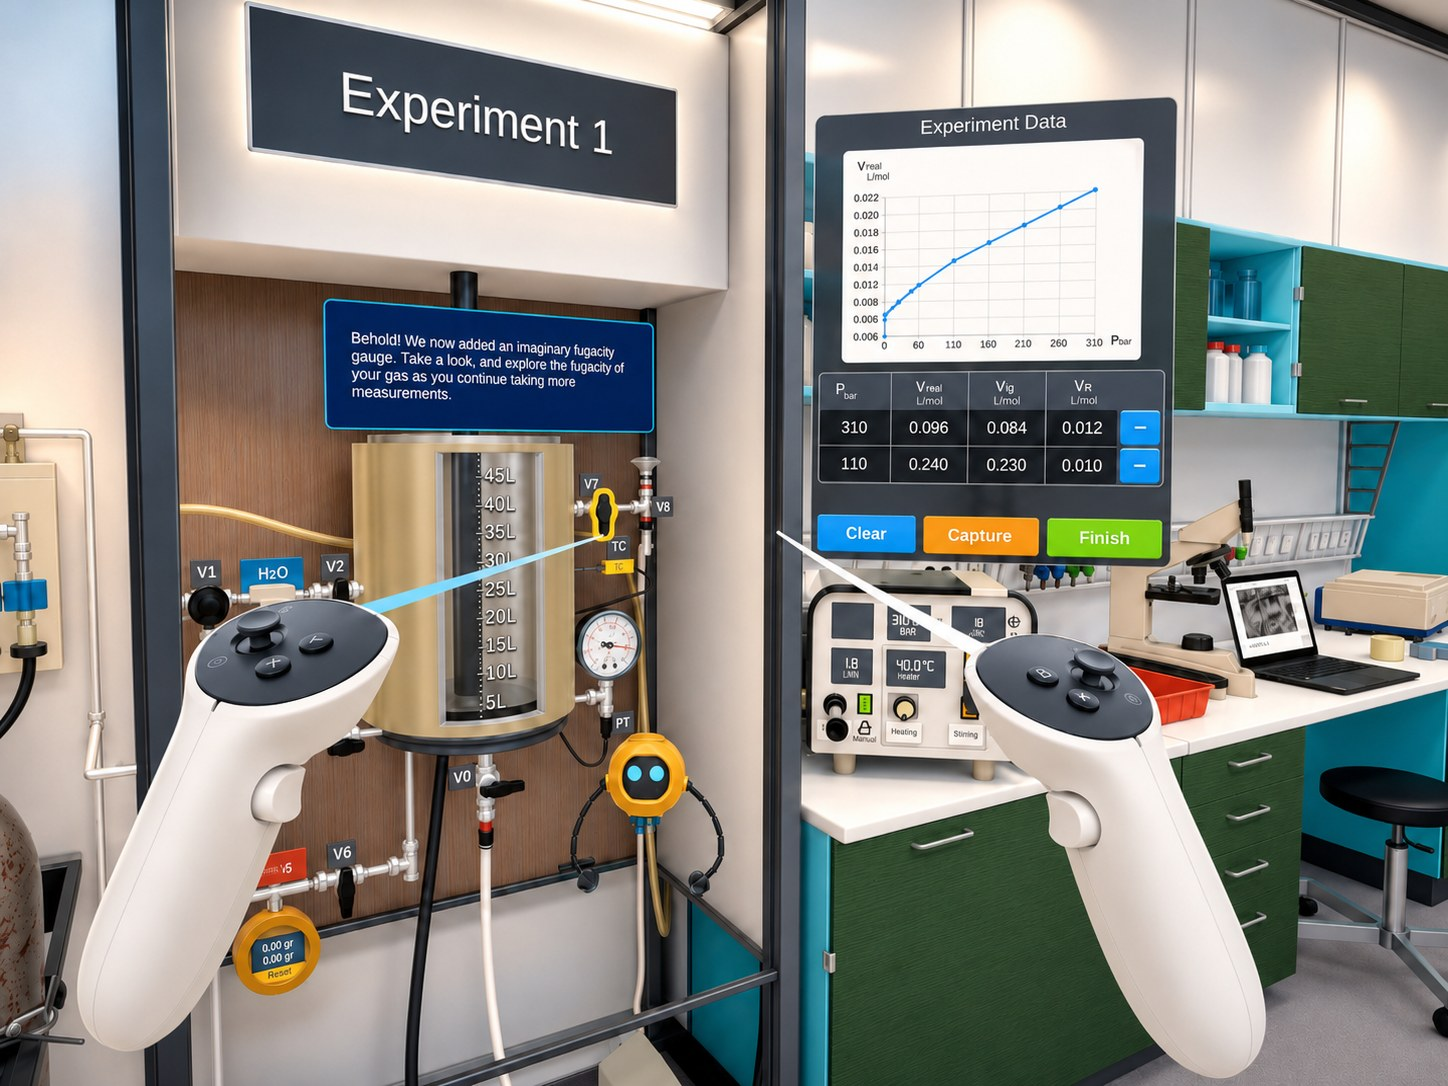
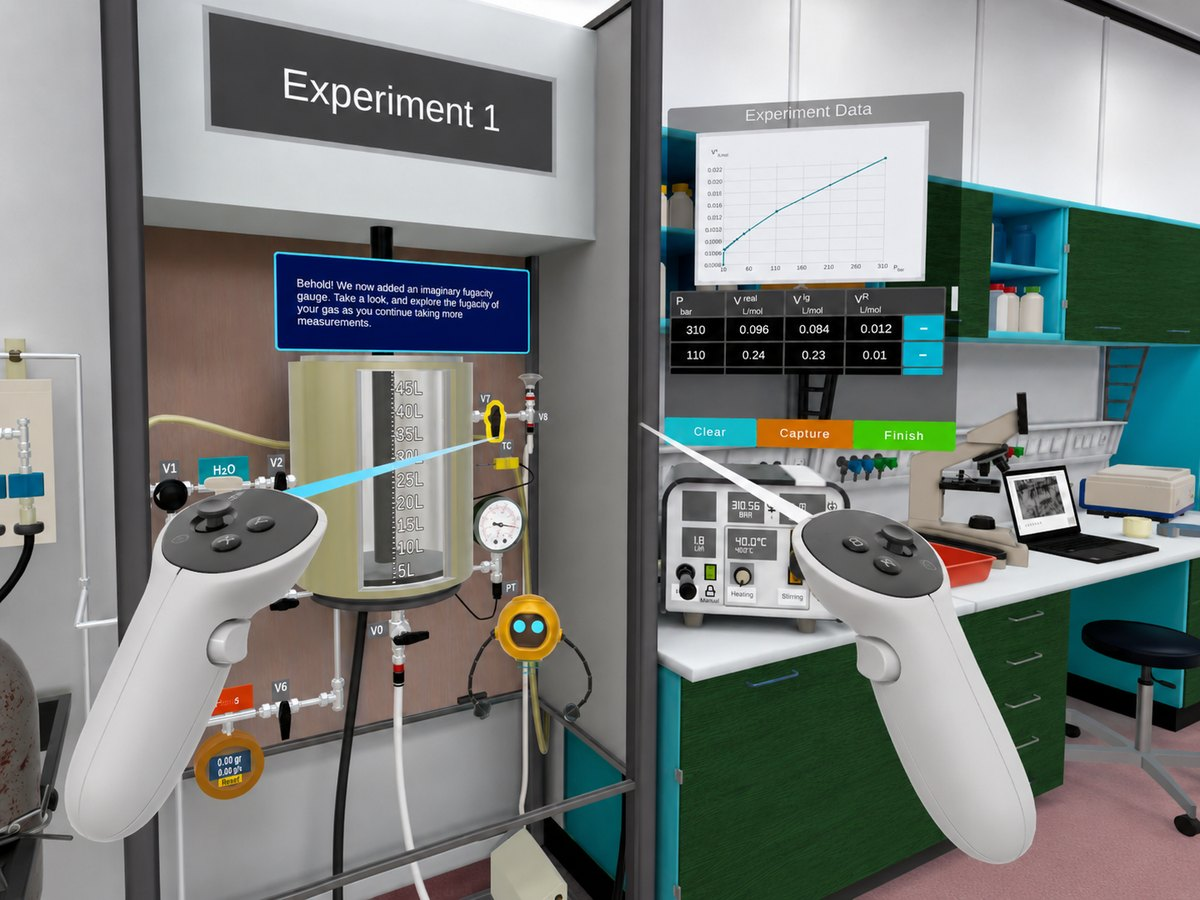
Use best portfolio thumbnails: VR_Base (graded) and authentic cropped AR
- VR card: switch to VR_Base grade (natural, sharp) instead of raw/cool/warm
- AR card: use authentic AR_Original passthrough capture, cropped 4:3 to hide
  room clutter, instead of the AI re-rendered version (reads as fake)
- Fix AR img width/height hint (square -> 4:3); regenerate optimized jpgs
- Commit source masters (Projects/) so they are recoverable

diff --git a/index.html b/index.html
@@ -258,7 +258,7 @@ footer{margin-top:60px;border-top:1px solid var(--line);padding:36px 0 26px}
     <p class="work-sub rv" data-i18n="work.sub">Concept to launch. Each project built fully by our director.</p>
     <div class="work-grid">
       <button type="button" class="wcard rv" data-project="ar" aria-expanded="false" aria-controls="wd-ar">
-        <img class="wthumb" src="assets/work-ar-enzymatic.jpg" alt="" width="1254" height="1254" loading="lazy">
+        <img class="wthumb" src="assets/work-ar-enzymatic.jpg" alt="" width="1200" height="900" loading="lazy">
         <h5 data-i18n="work.ar.title">Enzymatic Lab Educational Model</h5>
         <span data-i18n="work.ar.sub">Mixed Reality | Physics-Based Hand Interactions</span>
       </button>